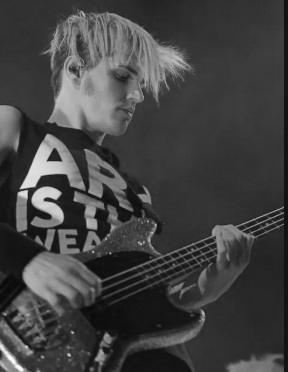
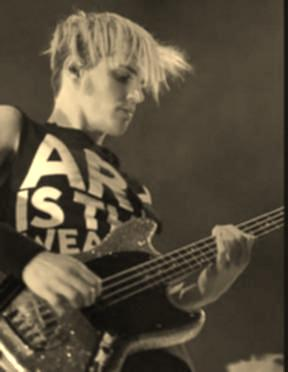
Done

diff --git a/Image Filtering Engine/src/Main.java b/Image Filtering Engine/src/Main.java
@@ -5,26 +5,39 @@ public class Main {
         Scanner scanner = new Scanner(System.in);
 
         System.out.println("--- Image Filtering Engine ---");
-        System.out.print("Enter the path to the source image (e.g., input.jpg): ");
+        System.out.print("Enter source image path (e.g., input.jpg): ");
         String inputPath = scanner.nextLine();
 
-        // 1. Load the image
         ImageMatrix sourceImage = ImageIOHandler.loadImage(inputPath);
 
-        // If the image loaded successfully, proceed with the filter
         if (sourceImage != null) {
-            // 2. Apply the filter using the Interface
-            ImageTransformer grayscale = new GrayscaleFilter();
-            ImageMatrix processedImage = grayscale.apply(sourceImage);
+            System.out.println("\nSelect a filter:");
+            System.out.println("1. Grayscale");
+            System.out.println("2. Sepia");
+            System.out.println("3. Blur");
+            System.out.print("Choice: ");
+            int choice = scanner.nextInt();
+            scanner.nextLine(); // Clear the newline
 
-            // 3. Save the new image
-            System.out.print("Enter the path to save the new image (e.g., output.jpg): ");
+            // Use the Interface to apply the chosen strategy dynamically
+            ImageTransformer filter;
+            if (choice == 2) {
+                filter = new SepiaFilter();
+            } else if (choice == 3) {
+                filter = new BlurFilter();
+            } else {
+                filter = new GrayscaleFilter();
+            }
+            
+            ImageMatrix processedImage = filter.apply(sourceImage);
+
+            System.out.print("Enter save path (e.g., output.jpg): ");
             String outputPath = scanner.nextLine();
             ImageIOHandler.saveImage(processedImage, outputPath);
             
             System.out.println("Processing complete!");
         } else {
-            System.out.println("Failed to load the image. Exiting program.");
+            System.out.println("Failed to load the image.");
         }
 
         scanner.close();
